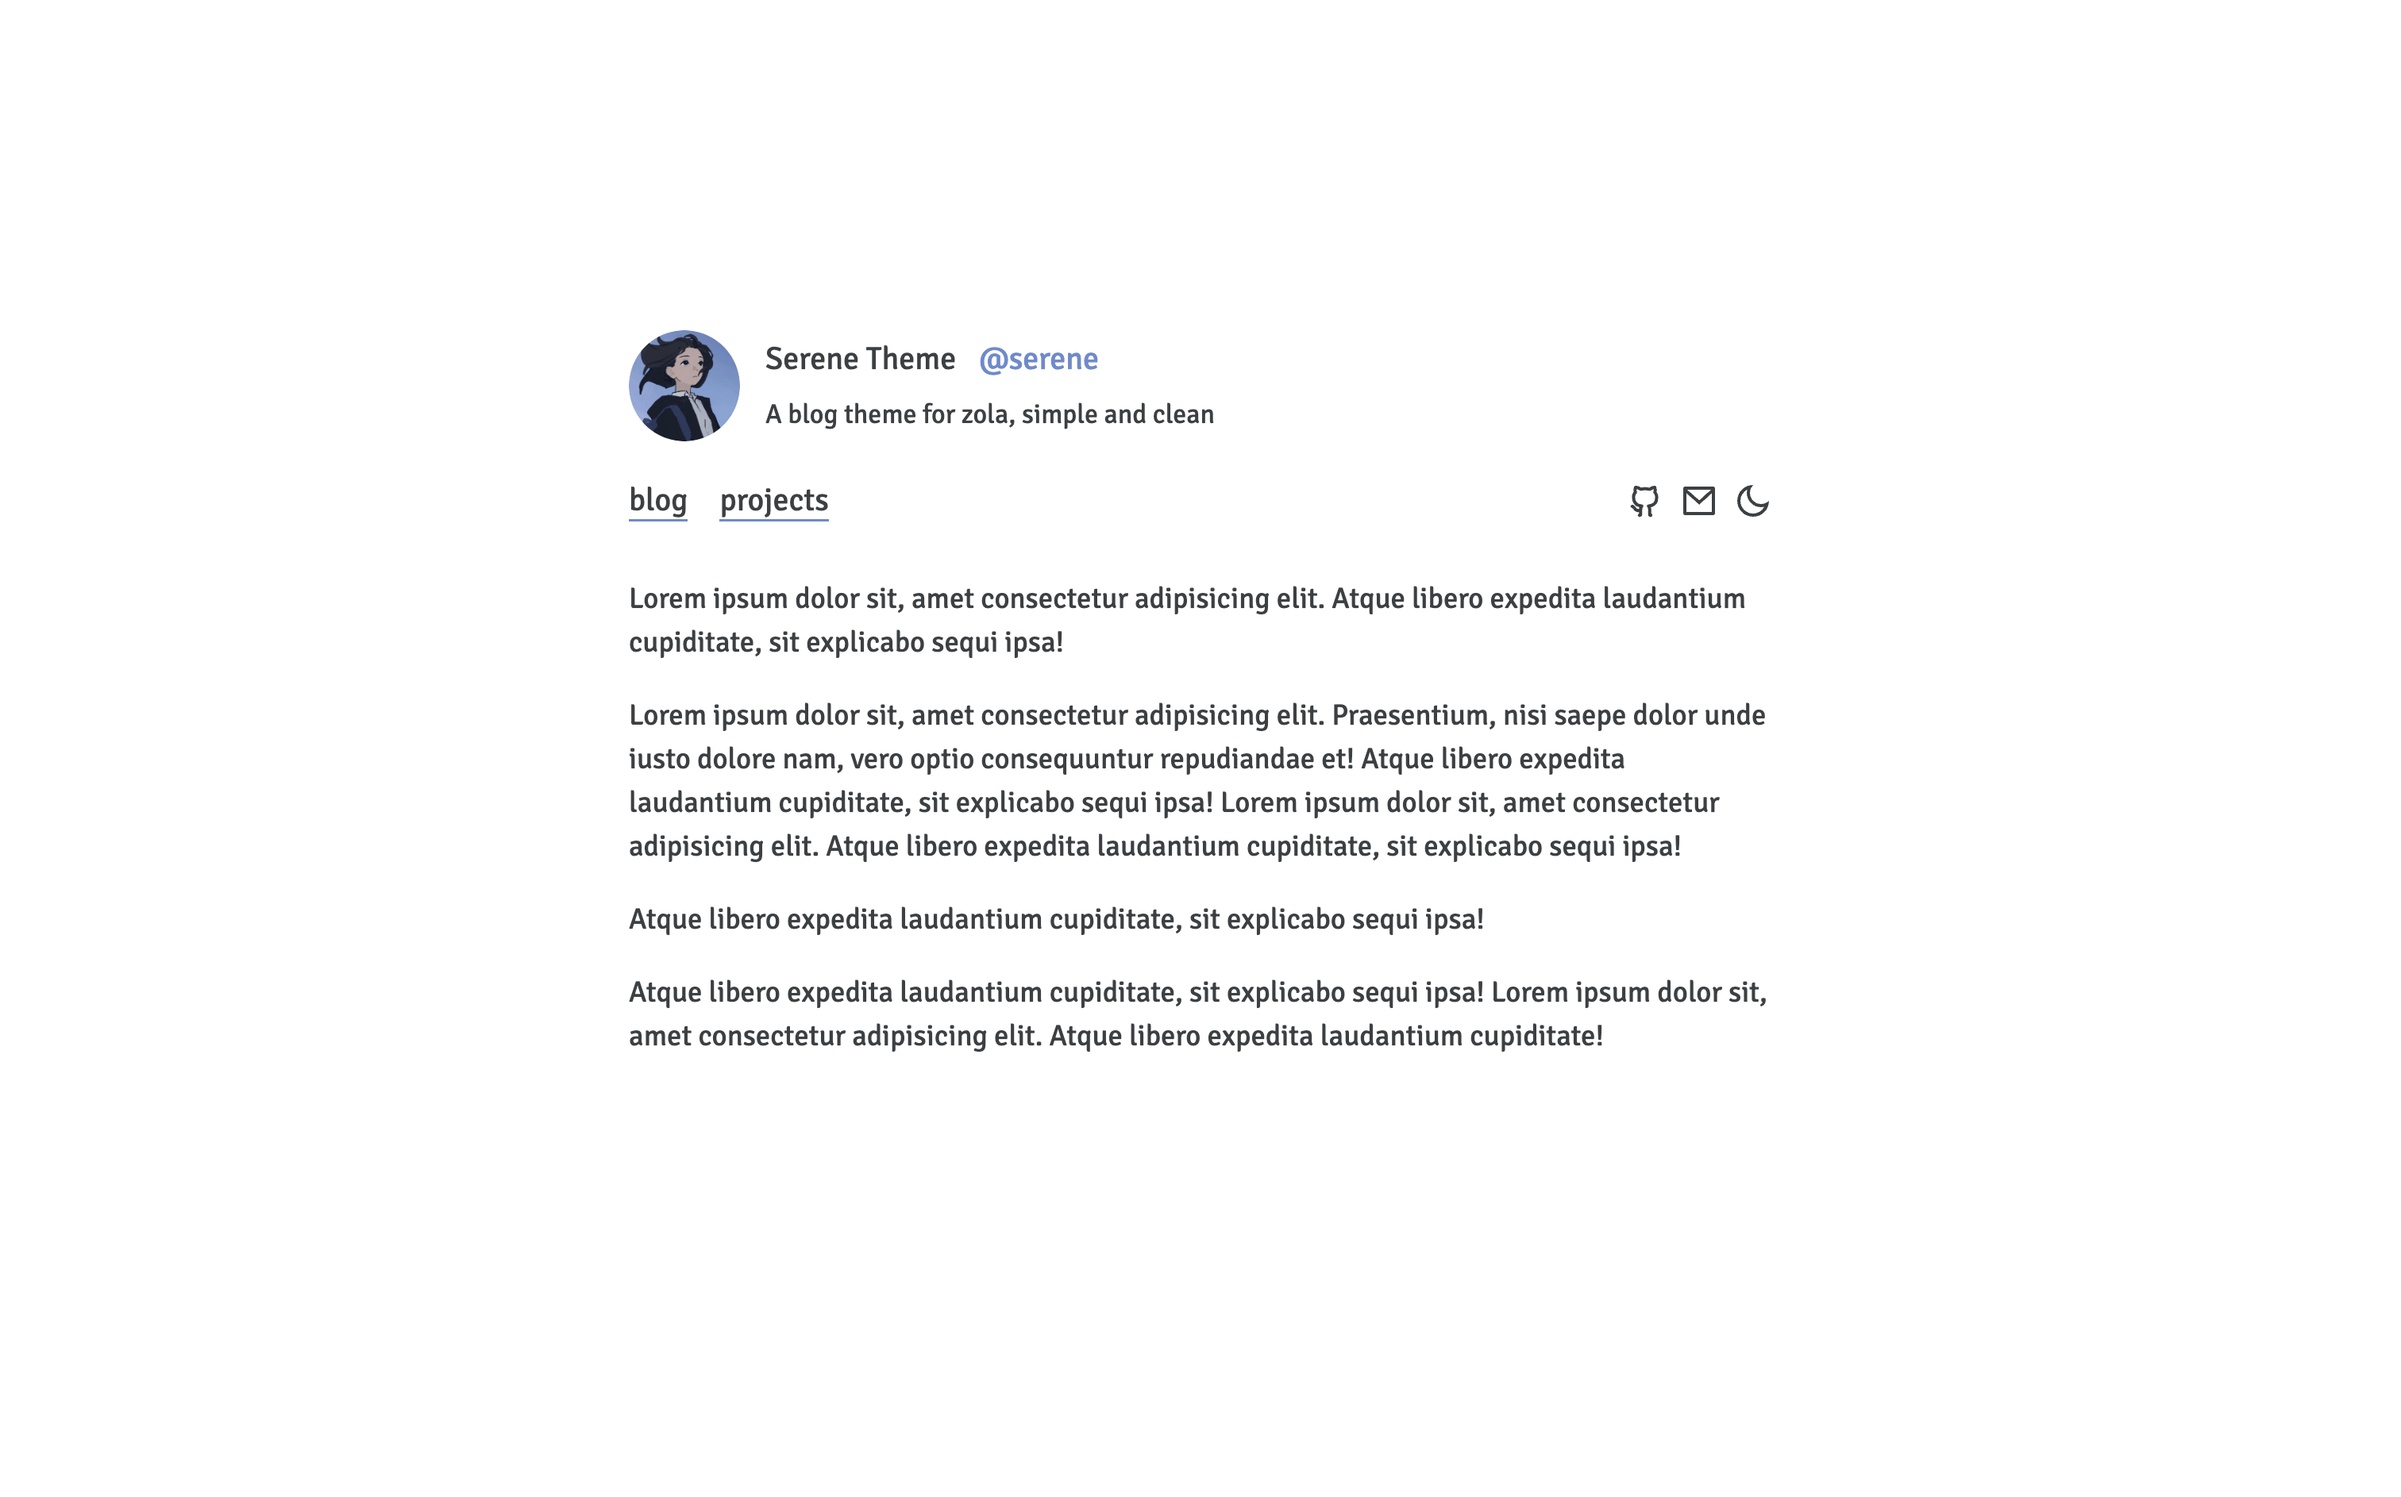
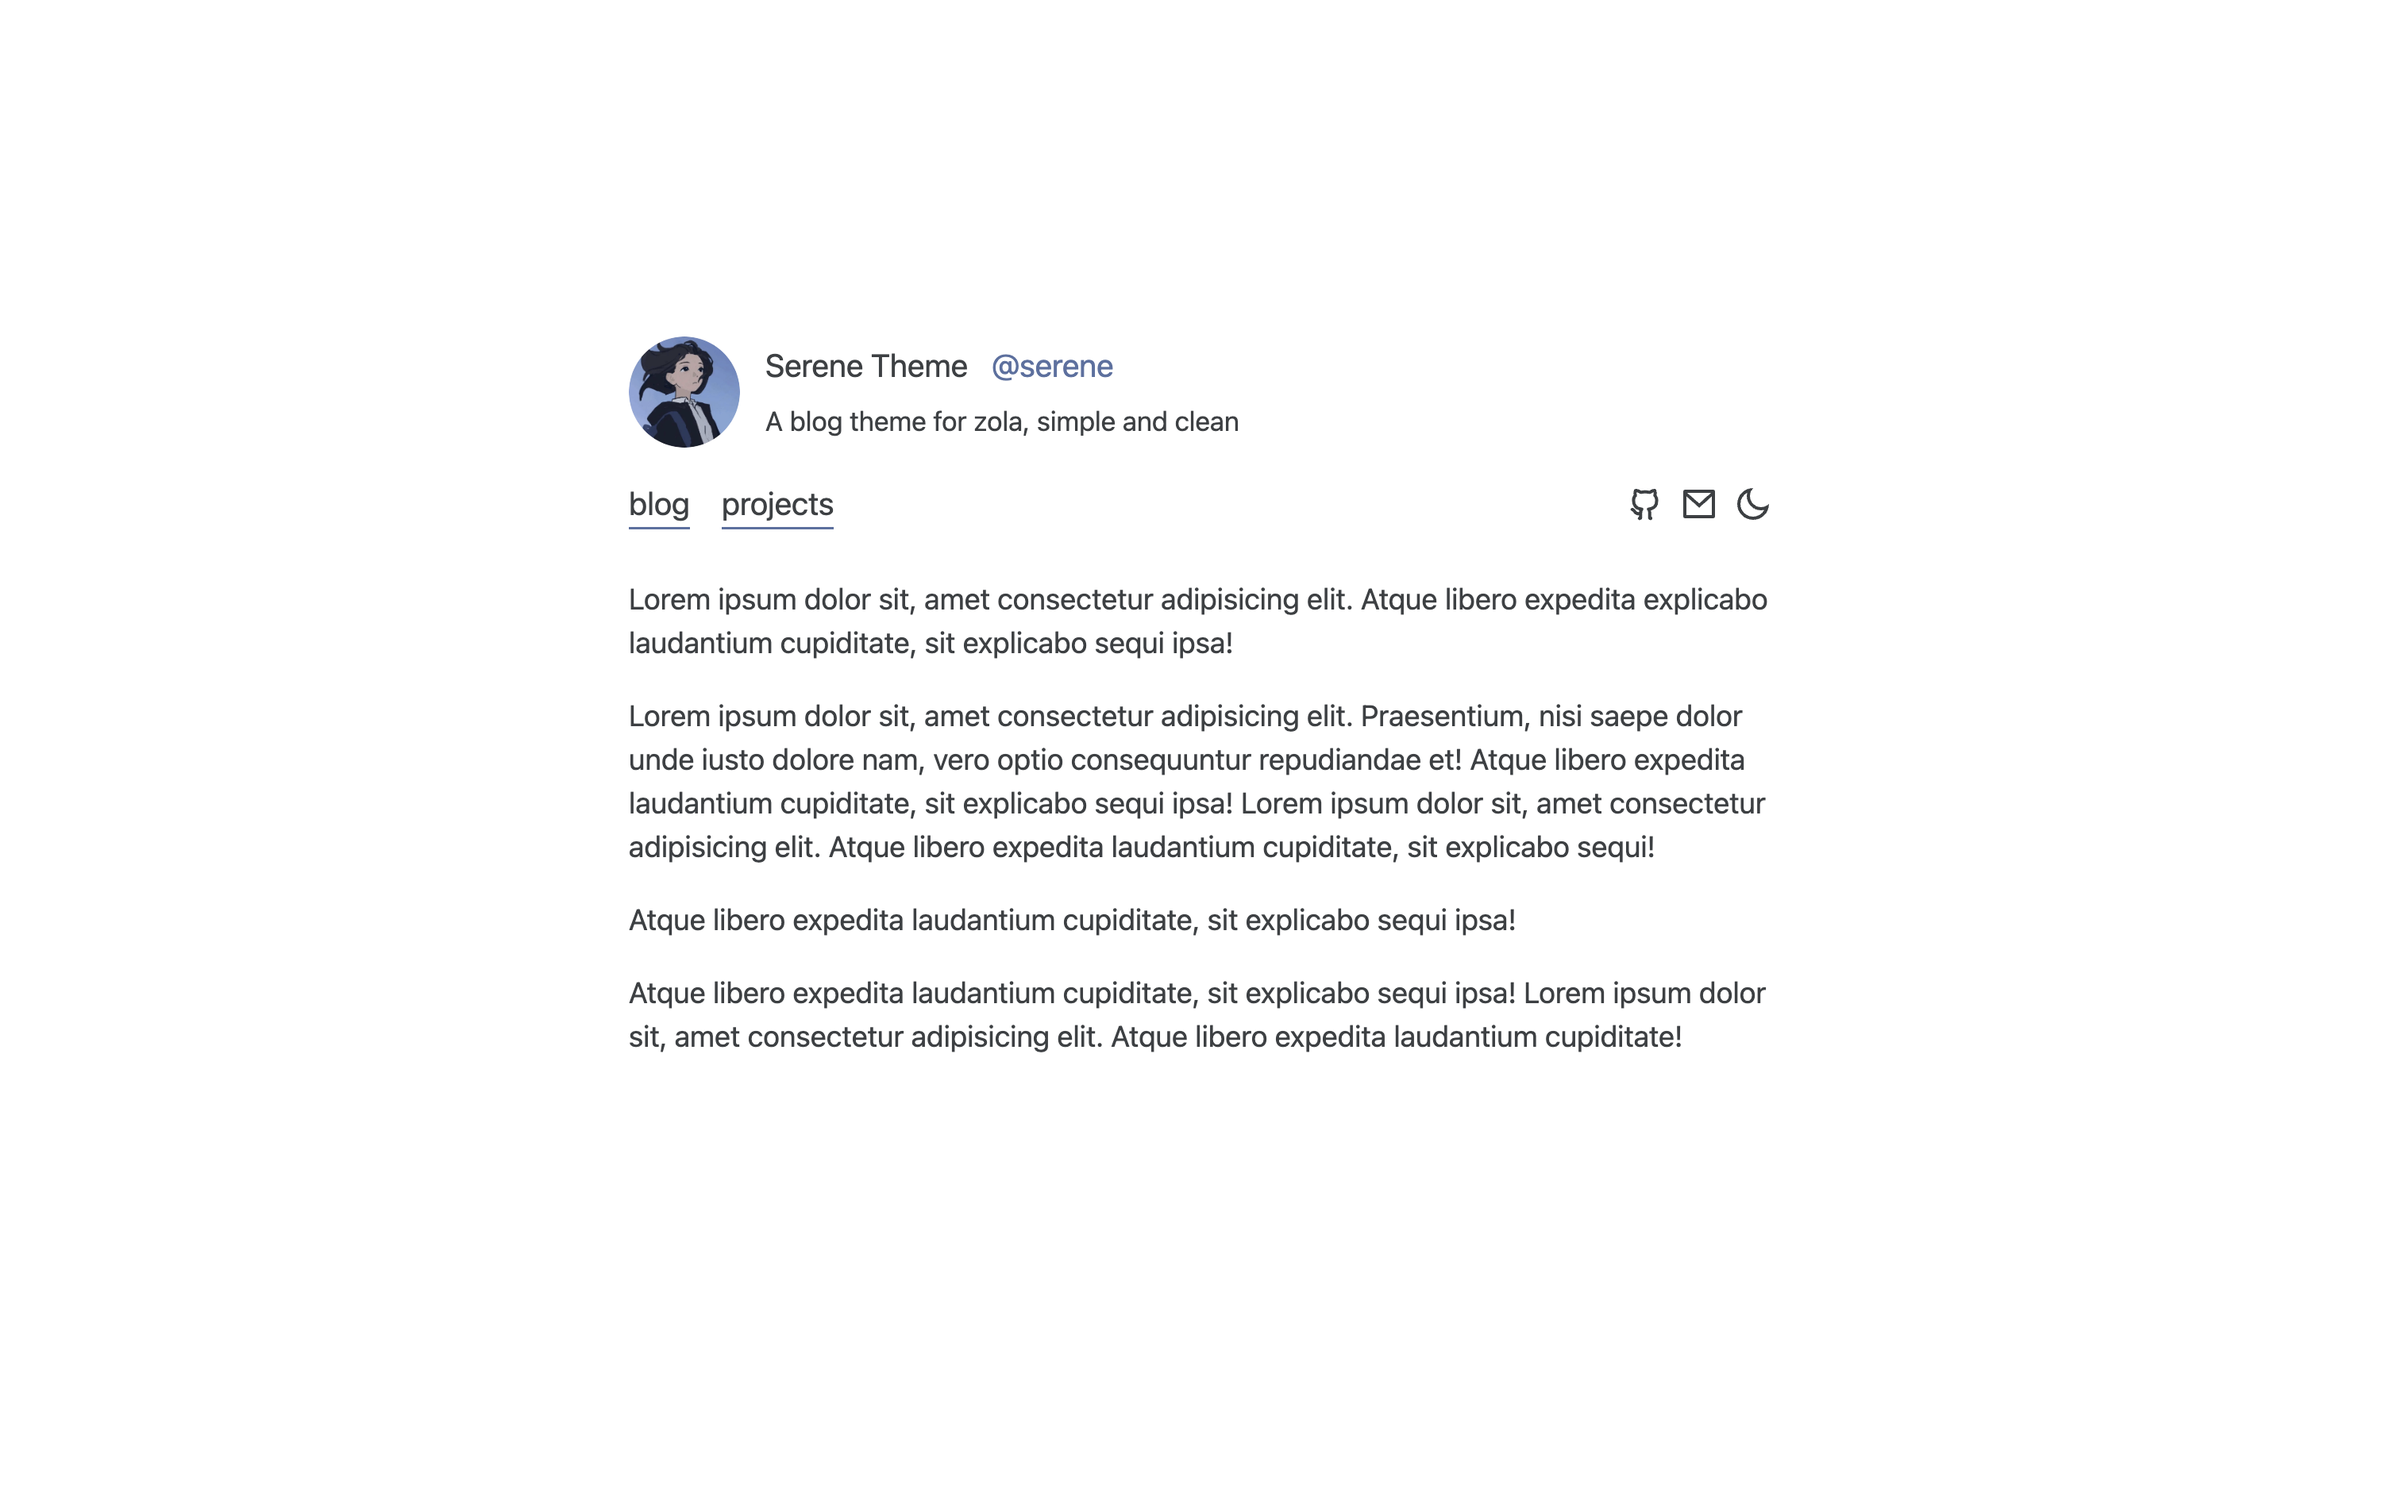
docs: v2.3.0 update

Changed region(s): [[0.2487, 0.2153, 0.746, 0.7073], [0.6839, 0.3075, 0.7149, 0.3383]]

diff --git a/USAGE.md b/USAGE.md
@@ -224,7 +224,7 @@ Now the myblog directory may looks like this:
 
 ### Fonts
 
-- Serene uses the Signika font of [Google Fonts](https://fonts.google.com/) by default. If you want a different font, create a new `myblog/templates/_custom_font.html` and put the font link tags you copied from google fonts website into it, and then modify `--main-font` or `--code-font` in `myblog/sass/main.scss`. 
+- <del>Serene uses the Signika font of [Google Fonts](https://fonts.google.com/) by default.</del> If you want a different font, create a new `myblog/templates/_custom_font.html` and put the font link tags you copied from google fonts website into it, and then modify `--main-font` or `--code-font` in `myblog/sass/main.scss`. 
 
 - For performance reason, you may want to self-host font files (optional): 
   1. Open [google-webfonts-helper](https://gwfh.mranftl.com) and choose your font

diff --git a/USAGE-zh_CN.md b/USAGE-zh_CN.md
@@ -224,7 +224,7 @@ Hi, My name is ....
 
 ### 字体
 
-- Serene 默认使用 [Google Fonts](https://fonts.google.com/) 的 Signika 字体，如需自定义字体，新建 `myblog/templates/_custom_font.html` 并将从 Google Fonts 复制的字体样式表 link 标签放入其中，然后修改 `myblog/sass/main.scss` 中的 `--main-font` 或者 `--code-font`. 
+- <del>Serene 默认使用 [Google Fonts](https://fonts.google.com/) 的 Signika 字体，</del>如需自定义字体，新建 `myblog/templates/_custom_font.html` 并将从 Google Fonts 复制的字体样式表 link 标签放入其中，然后修改 `myblog/sass/main.scss` 中的 `--main-font` 或者 `--code-font`. 
 
 - 为了进一步提高网站速度, 你也可以选择自己托管字体文件(可选):
   1. 打开 [google-webfonts-helper](https://gwfh.mranftl.com) 并选择一个字体

diff --git a/CHANGELOG.md b/CHANGELOG.md
@@ -2,6 +2,21 @@
 
 All notable changes to this project will be documented in this file.
 
+## [2.3.0] - 2024-01-09
+
+### Fix:
+
+- `z-index` of mobile sidebar
+
+### UI:
+
+- Color change and some small tweaks
+
+### Remove:
+
+- Default custom font removed
+
+
 ## [2.2.1] - 2024-01-02
 
 ### Fix:
@@ -134,6 +149,7 @@ All notable changes to this project will be documented in this file.
 
 First release 🎉
 
+[2.3.0]: https://github.com/isunjn/serene/compare/v2.2.1...v2.3.0
 [2.2.1]: https://github.com/isunjn/serene/compare/v2.2.0...v2.2.1
 [2.2.0]: https://github.com/isunjn/serene/compare/v2.1.2...v2.2.0
 [2.1.2]: https://github.com/isunjn/serene/compare/v2.1.1...v2.1.2

diff --git a/README.md b/README.md
@@ -1,4 +1,4 @@
-<img width="1501" alt="screenshot" src="https://github.com/isunjn/serene/assets/60461730/33516366-3670-497f-bd72-41ebe8f06f1a">
+<img width="1501" alt="screenshot" src="https://github.com/isunjn/serene/assets/60461730/c3192aa5-945b-49f4-816d-861501d940ae">
 
 <br /><br />
 
